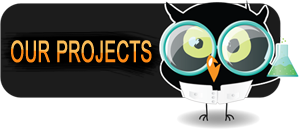
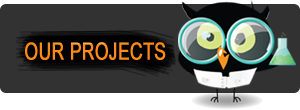
Finished heading page

diff --git a/styles/main.css b/styles/main.css
@@ -24,7 +24,7 @@ body {
 	text-decoration: none;
 	float: left;
 	font-size: 16px;
-	margin: 9px 270px 9px 110px;
+	padding: 9px 0 9px 10px;
 }
 .email:hover {
 	text-decoration: underline;
@@ -35,6 +35,7 @@ body {
 	right: 5px;
 }
 #nav_links {
+	float: right;
 	display: inline-block;
 	list-style: none outside none;
 	margin: 0;
@@ -46,11 +47,8 @@ body {
 	padding: 0;
 }
 #nav_links li:hover {
-	background-image: linear-gradient(bottom, #212121 90%, #050505 100%, #212121 100%);
-	background-image: -o-linear-gradient(bottom, #212121 90%, #050505 100%, #212121 100%);
-	background-image: -moz-linear-gradient(bottom, #212121 90%, #050505 100%, #212121 100%);
-	background-image: -webkit-linear-gradient(bottom, #212121 90%, #050505 100%, #212121 100%);
-	background-image: -ms-linear-gradient(bottom, #212121 90%, #050505 100%, #212121 100%);
+	background-color: #2B2B2B;
+
 }
 .follow_logo {
 	margin-bottom: -2px;
@@ -164,7 +162,7 @@ body {
 }
 .contact_menu_container {
 	float: left;
-	width: 280px;
+	width: 300px;
 }
 .contact_menu {
 
@@ -172,7 +170,7 @@ body {
 	width: 200px;
 }
 .footer_content .mail_button {
-	background: url("../assets/mail_icon.png") no-repeat scroll 15px center #3F3F3F;
+	background: url("../assets/mail_icon.png") no-repeat scroll 15px center #272727;
 	border: medium none;
 	display: block;
 	padding: 10px 0 10px 20px;
@@ -181,7 +179,7 @@ body {
 	margin-bottom: 10px;
 }
 .footer_content .mail_button:hover {
-	background: url("../assets/mail_icon.png") no-repeat scroll 15px center #4D4D4D;
+	background: url("../assets/mail_icon.png") no-repeat scroll 15px center #343434;
 }
 .footer_content a:link, .footer_content  a:visited, .footer_content h4, .footer_content h4:visited {
 	color: #CCCCCC;
@@ -235,10 +233,21 @@ b {
 #twitter_container {
 	background-color: #E9E9E9;
 }
-#gamification {
+#gamification, #our_projects {
 	float: left;
 	margin: 0 10px 30px;
+}
+#gamification {
 	width: 620px;
+}
+h2.gamification {
+	margin-bottom: 10px;
+	font-weight: bold;
+	font-size: 120%;
+	color: #000000;
+}
+.our_projects_button {
+	margin-top: 30px;
 }
 .sunglasses_owl {
 	float: left;
@@ -368,11 +377,4 @@ b {
 .twitter_logo {
 	position: absolute;
 	right: 10px;
-}
-h2.gamification {
-
-	margin-bottom: 10px;
-	font-weight: bold;
-	font-size: 120%;
-	color: #000000;
 }

diff --git a/javascript/index.js b/javascript/index.js
@@ -13,3 +13,11 @@ blog.posts().all(function(posts){
     });
   }
 });
+
+$(document).ready(function() {
+	$('img.our_projects_button').hover(function() {
+		$(this).attr("src", "assets/projects-button-hover.png");
+	}, function() {
+		$(this).attr("src", "assets/projects-button.png");
+	});
+});

diff --git a/templates_c/f90be83b235fb03cc225b11607032e9ddd415899.file.index.tpl.php b/templates_c/f90be83b235fb03cc225b11607032e9ddd415899.file.index.tpl.php
@@ -1,4 +1,4 @@
-<?php /* Smarty version Smarty-3.1.8, created on 2012-03-28 19:33:47
+<?php /* Smarty version Smarty-3.1.8, created on 2012-03-28 22:20:17
          compiled from "templates\index.tpl" */ ?>
 <?php /*%%SmartyHeaderCode:212324f47a73d67a5d4-95978130%%*/if(!defined('SMARTY_DIR')) exit('no direct access allowed');
 $_valid = $_smarty_tpl->decodeProperties(array (
@@ -7,7 +7,7 @@ $_valid = $_smarty_tpl->decodeProperties(array (
     'f90be83b235fb03cc225b11607032e9ddd415899' => 
     array (
       0 => 'templates\\index.tpl',
-      1 => 1332956025,
+      1 => 1332966016,
       2 => 'file',
     ),
   ),
@@ -115,11 +115,8 @@ $_valid = $_smarty_tpl->decodeProperties(array (
 							Gamification refers to incorporating game elements and mechanics into non-gaming websites and software.
 						</div>
 					</div>
-					<div id="follow_container">
-						<h2 class='title rounded' title='FOLLOW US'>FOLLOW US </h2>
-						<div class="follow_content">
-							Everything around Game-Craft:
-						</div>
+					<div id="our_projects">
+						<a href="http://game-lab.co/"><img class = 'our_projects_button' width='300' height='110' src='assets/projects-button.png' alt="Our Projects" /></a>
 					</div>
 				</div>
 			</div>
@@ -176,7 +173,7 @@ $_valid = $_smarty_tpl->decodeProperties(array (
 					</div>
 					<div class="contact_menu_container">
 						<div class="contact_menu">
-							<a class="mail_button rounded" href="http://zealotdesigns.com/contact/">Contact us now!</a>
+							<a class="mail_button rounded" href="mailto:level2@game-craft.com">Contact us now!</a>
 							Copyright © 2012 by Game-Craft.
 						</div>
 					</div>
